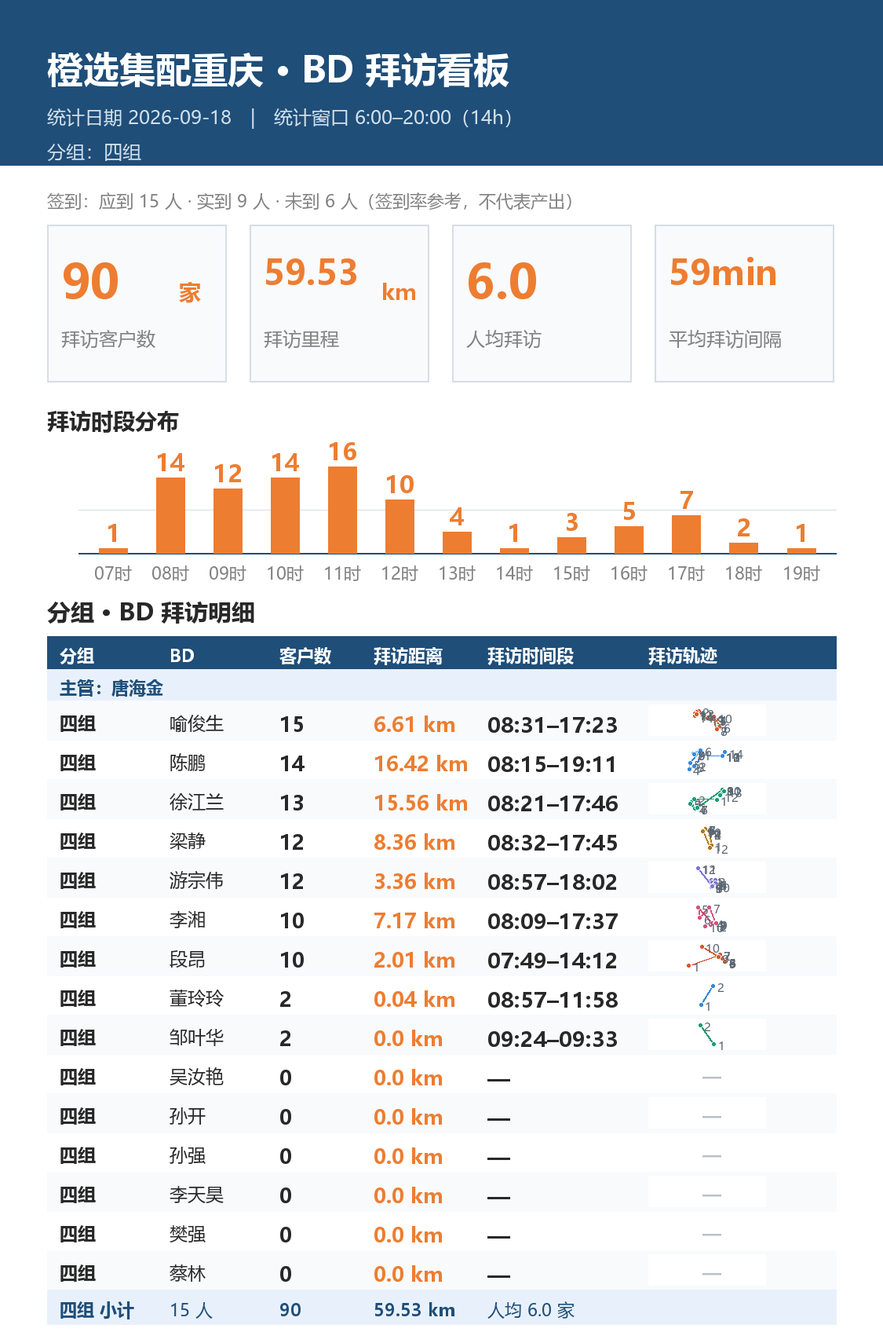
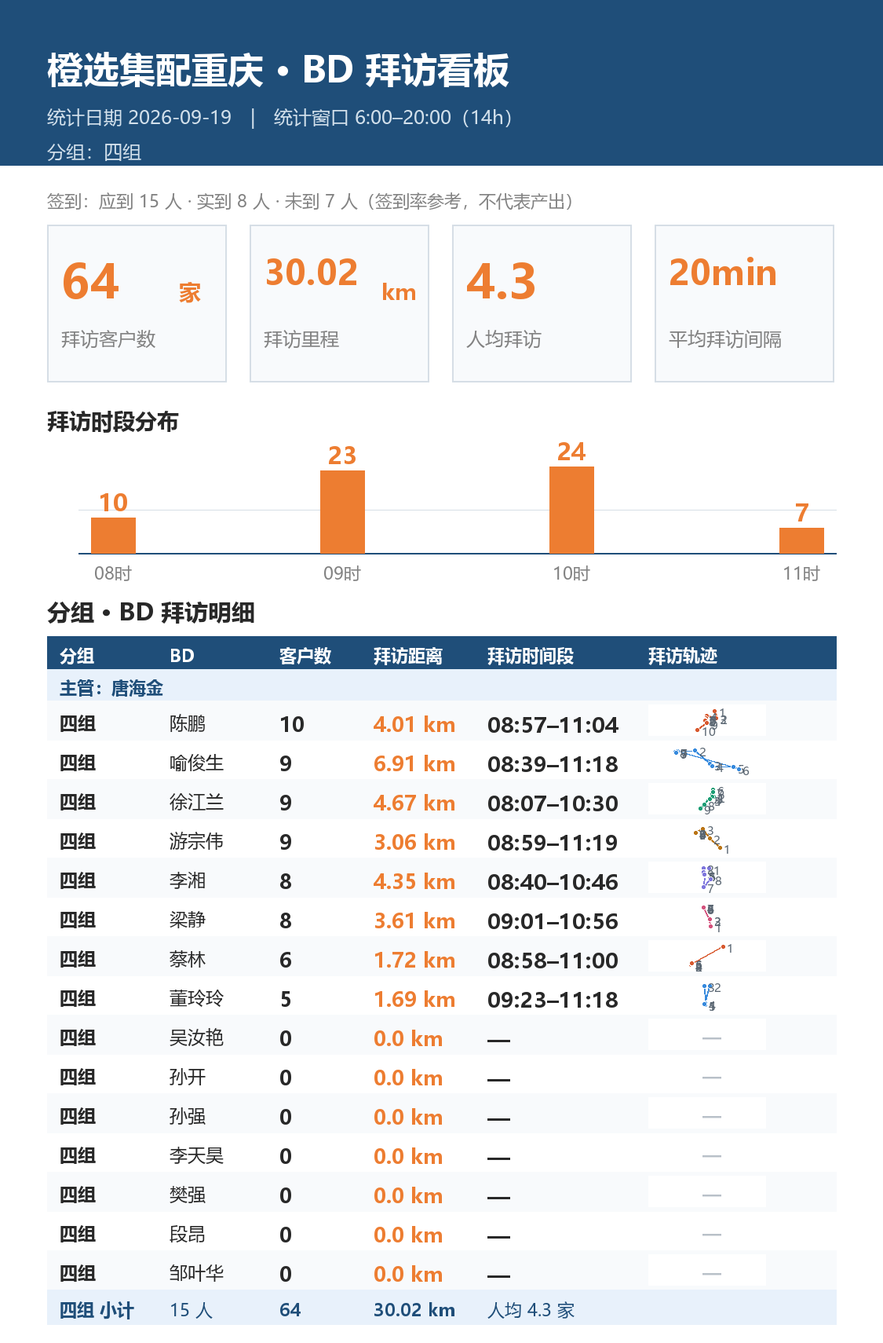
BD 拜访看板 2026-09-19

diff --git a/visit_board_g4.html b/visit_board_g4.html
@@ -1,6 +1,6 @@
 <!doctype html><html lang="zh-CN"><head><meta charset="utf-8">
 <meta name="viewport" content="width=device-width,initial-scale=1">
-<title>四组 · BD 拜访看板（2026-09-19）</title>
+<title>四组 · BD 拜访看板 · 主管：唐海金（2026-09-19）</title>
 <link rel="stylesheet" href="https://unpkg.com/leaflet@1.9.4/dist/leaflet.css"/>
 <script src="https://unpkg.com/leaflet@1.9.4/dist/leaflet.js"></script>
 <style>
@@ -103,50 +103,50 @@ td.span{font-size:16px;font-weight:600;color:#1F4E79;white-space:nowrap}
   .bar{width:72%;max-width:32px}
 }
 </style></head><body>
-<div class="head"><h1>四组 · BD 拜访看板</h1>
+<div class="head"><h1>四组 · BD 拜访看板 · 主管：唐海金</h1>
 <div class="sub">统计日期 2026-09-19　|　15 人　|　数据来源：钉钉签到</div></div>
 <div class="wrap">
 <div class="cards">
-<div class="card"><div><span class="v">58</span><span class="u">家</span></div><div class="l">拜访客户数</div></div><div class="card"><div><span class="v">27.93</span><span class="u">km</span></div><div class="l">拜访里程</div></div><div class="card"><div><span class="v">3.9</span><span class="u">家</span></div><div class="l">人均拜访</div></div><div class="card"><div><span class="v">22min</span><span class="u"></span></div><div class="l">平均拜访间隔</div></div>
+<div class="card"><div><span class="v">64</span><span class="u">家</span></div><div class="l">拜访客户数</div></div><div class="card"><div><span class="v">30.02</span><span class="u">km</span></div><div class="l">拜访里程</div></div><div class="card"><div><span class="v">4.3</span><span class="u">家</span></div><div class="l">人均拜访</div></div><div class="card"><div><span class="v">20min</span><span class="u"></span></div><div class="l">平均拜访间隔</div></div>
 </div>
-<div class="section"><h2>拜访时段分布</h2><div class="chart"><div class="crow"><div class="col"><span class="bv">10</span><div class="bar" style="height:23px"></div><span class="xl">08时</span></div><div class="col"><span class="bv">23</span><div class="bar" style="height:48px"></div><span class="xl">09时</span></div><div class="col"><span class="bv">24</span><div class="bar" style="height:50px"></div><span class="xl">10时</span></div><div class="col"><span class="bv">1</span><div class="bar" style="height:6px"></div><span class="xl">11时</span></div></div></div></div>
+<div class="section"><h2>拜访时段分布</h2><div class="chart"><div class="crow"><div class="col"><span class="bv">10</span><div class="bar" style="height:23px"></div><span class="xl">08时</span></div><div class="col"><span class="bv">23</span><div class="bar" style="height:48px"></div><span class="xl">09时</span></div><div class="col"><span class="bv">24</span><div class="bar" style="height:50px"></div><span class="xl">10时</span></div><div class="col"><span class="bv">7</span><div class="bar" style="height:17px"></div><span class="xl">11时</span></div></div></div></div>
 <div class="section"><h2>BD 拜访明细（15 人 / 签到 8 人）</h2>
 <table class="bd"><thead><tr><th>BD</th><th class="num">客户数</th><th class="num">拜访距离</th><th class="c">拜访时间段</th><th class="c">拜访轨迹</th></tr></thead>
 <tbody><tr style="background:#F2F6FB">
+<td data-label="BD">陈鹏</td>
+<td class="num" data-label="客户数">10</td>
+<td class="num orange" data-label="拜访距离">4.01</td>
+<td class="c span" data-label="拜访时间段">08:57–11:04</td>
+<td class="c" data-label="拜访轨迹"><a href="javascript:void(0)" onclick="openRoute(0)" style="color:#1F4E79;font-weight:600;font-size:13px;white-space:nowrap">查看详情 ›</a></td>
+</tr><tr style="background:#FFFFFF">
+<td data-label="BD">喻俊生</td>
+<td class="num" data-label="客户数">9</td>
+<td class="num orange" data-label="拜访距离">6.91</td>
+<td class="c span" data-label="拜访时间段">08:39–11:18</td>
+<td class="c" data-label="拜访轨迹"><a href="javascript:void(0)" onclick="openRoute(1)" style="color:#1F4E79;font-weight:600;font-size:13px;white-space:nowrap">查看详情 ›</a></td>
+</tr><tr style="background:#F2F6FB">
 <td data-label="BD">徐江兰</td>
 <td class="num" data-label="客户数">9</td>
 <td class="num orange" data-label="拜访距离">4.67</td>
 <td class="c span" data-label="拜访时间段">08:07–10:30</td>
-<td class="c" data-label="拜访轨迹"><a href="javascript:void(0)" onclick="openRoute(0)" style="color:#1F4E79;font-weight:600;font-size:13px;white-space:nowrap">查看详情 ›</a></td>
-</tr><tr style="background:#FFFFFF">
-<td data-label="BD">陈鹏</td>
-<td class="num" data-label="客户数">9</td>
-<td class="num orange" data-label="拜访距离">2.8</td>
-<td class="c span" data-label="拜访时间段">08:57–10:30</td>
-<td class="c" data-label="拜访轨迹"><a href="javascript:void(0)" onclick="openRoute(1)" style="color:#1F4E79;font-weight:600;font-size:13px;white-space:nowrap">查看详情 ›</a></td>
-</tr><tr style="background:#F2F6FB">
-<td data-label="BD">喻俊生</td>
-<td class="num" data-label="客户数">8</td>
-<td class="num orange" data-label="拜访距离">6.85</td>
-<td class="c span" data-label="拜访时间段">08:39–10:55</td>
 <td class="c" data-label="拜访轨迹"><a href="javascript:void(0)" onclick="openRoute(2)" style="color:#1F4E79;font-weight:600;font-size:13px;white-space:nowrap">查看详情 ›</a></td>
 </tr><tr style="background:#FFFFFF">
+<td data-label="BD">游宗伟</td>
+<td class="num" data-label="客户数">9</td>
+<td class="num orange" data-label="拜访距离">3.06</td>
+<td class="c span" data-label="拜访时间段">08:59–11:19</td>
+<td class="c" data-label="拜访轨迹"><a href="javascript:void(0)" onclick="openRoute(3)" style="color:#1F4E79;font-weight:600;font-size:13px;white-space:nowrap">查看详情 ›</a></td>
+</tr><tr style="background:#F2F6FB">
 <td data-label="BD">李湘</td>
 <td class="num" data-label="客户数">8</td>
 <td class="num orange" data-label="拜访距离">4.35</td>
 <td class="c span" data-label="拜访时间段">08:40–10:46</td>
-<td class="c" data-label="拜访轨迹"><a href="javascript:void(0)" onclick="openRoute(3)" style="color:#1F4E79;font-weight:600;font-size:13px;white-space:nowrap">查看详情 ›</a></td>
-</tr><tr style="background:#F2F6FB">
+<td class="c" data-label="拜访轨迹"><a href="javascript:void(0)" onclick="openRoute(4)" style="color:#1F4E79;font-weight:600;font-size:13px;white-space:nowrap">查看详情 ›</a></td>
+</tr><tr style="background:#FFFFFF">
 <td data-label="BD">梁静</td>
 <td class="num" data-label="客户数">8</td>
 <td class="num orange" data-label="拜访距离">3.61</td>
 <td class="c span" data-label="拜访时间段">09:01–10:56</td>
-<td class="c" data-label="拜访轨迹"><a href="javascript:void(0)" onclick="openRoute(4)" style="color:#1F4E79;font-weight:600;font-size:13px;white-space:nowrap">查看详情 ›</a></td>
-</tr><tr style="background:#FFFFFF">
-<td data-label="BD">游宗伟</td>
-<td class="num" data-label="客户数">7</td>
-<td class="num orange" data-label="拜访距离">2.96</td>
-<td class="c span" data-label="拜访时间段">08:59–10:56</td>
 <td class="c" data-label="拜访轨迹"><a href="javascript:void(0)" onclick="openRoute(5)" style="color:#1F4E79;font-weight:600;font-size:13px;white-space:nowrap">查看详情 ›</a></td>
 </tr><tr style="background:#F2F6FB">
 <td data-label="BD">蔡林</td>
@@ -156,9 +156,9 @@ td.span{font-size:16px;font-weight:600;color:#1F4E79;white-space:nowrap}
 <td class="c" data-label="拜访轨迹"><a href="javascript:void(0)" onclick="openRoute(6)" style="color:#1F4E79;font-weight:600;font-size:13px;white-space:nowrap">查看详情 ›</a></td>
 </tr><tr style="background:#FFFFFF">
 <td data-label="BD">董玲玲</td>
-<td class="num" data-label="客户数">3</td>
-<td class="num orange" data-label="拜访距离">0.97</td>
-<td class="c span" data-label="拜访时间段">09:23–10:54</td>
+<td class="num" data-label="客户数">5</td>
+<td class="num orange" data-label="拜访距离">1.69</td>
+<td class="c span" data-label="拜访时间段">09:23–11:18</td>
 <td class="c" data-label="拜访轨迹"><a href="javascript:void(0)" onclick="openRoute(7)" style="color:#1F4E79;font-weight:600;font-size:13px;white-space:nowrap">查看详情 ›</a></td>
 </tr><tr style="background:#F2F6FB">
 <td data-label="BD">吴汝艳</td>
@@ -216,7 +216,7 @@ td.span{font-size:16px;font-weight:600;color:#1F4E79;white-space:nowrap}
 </div>
 
 <script>
-const R={"0": {"name": "徐江兰", "group": "四组", "visits": 9, "distance": 4.67, "span": "08:07–10:30", "pace": "18min", "pts": [{"lat": 30.660342881944445, "lon": 107.78721299913194, "time": "08:07", "visit": "回访", "loc": "双桂街道西城路406号锦绣家园", "seg_km": 0.0}, {"lat": 30.66017144097222, "lon": 107.7873939344618, "time": "08:52", "visit": "新客拜访", "loc": "双桂街道西城路锦绣家园", "seg_km": 0.03}, {"lat": 30.659663628472224, "lon": 107.78540961371527, "time": "09:04", "visit": "挽回", "loc": "双桂街道永安路锦绣家园", "seg_km": 0.2}, {"lat": 30.657361653645832, "lon": 107.78255479600695, "time": "09:18", "visit": "新客拜访", "loc": "双桂街道仁安路兴茂·盛世华都", "seg_km": 0.37}, {"lat": 30.6573486328125, "lon": 107.7824560546875, "time": "09:21", "visit": "挽回", "loc": "双桂街道仁安路兴茂·盛世华都", "seg_km": 0.01}, {"lat": 30.668187934027777, "lon": 107.78631944444444, "time": "10:02", "visit": "做售后", "loc": "梁山街道西大街", "seg_km": 1.26}, {"lat": 30.665606825086805, "lon": 107.78582058376736, "time": "10:09", "visit": "回访", "loc": "梁山街道梁柚路6号玉景豪庭", "seg_km": 0.29}, {"lat": 30.65163031684028, "lon": 107.77483642578125, "time": "10:26", "visit": "回访", "loc": "双桂街道玉桂路窝子溪滨河公园", "seg_km": 1.88}, {"lat": 30.647614203559026, "lon": 107.77016221788195, "time": "10:30", "visit": "新客拜访", "loc": "双桂街道新公教育(梁平分校)隆鑫花漾城", "seg_km": 0.63}], "stops": [{"n": 1, "time": "08:07", "visit": "回访", "loc": "双桂街道西城路406号锦绣家园"}, {"n": 2, "time": "08:52", "visit": "新客拜访", "loc": "双桂街道西城路锦绣家园"}, {"n": 3, "time": "09:04", "visit": "挽回", "loc": "双桂街道永安路锦绣家园"}, {"n": 4, "time": "09:18", "visit": "新客拜访", "loc": "双桂街道仁安路兴茂·盛世华都"}, {"n": 5, "time": "09:21", "visit": "挽回", "loc": "双桂街道仁安路兴茂·盛世华都"}, {"n": 6, "time": "10:02", "visit": "做售后", "loc": "梁山街道西大街"}, {"n": 7, "time": "10:09", "visit": "回访", "loc": "梁山街道梁柚路6号玉景豪庭"}, {"n": 8, "time": "10:26", "visit": "回访", "loc": "双桂街道玉桂路窝子溪滨河公园"}, {"n": 9, "time": "10:30", "visit": "新客拜访", "loc": "双桂街道新公教育(梁平分校)隆鑫花漾城"}]}, "1": {"name": "陈鹏", "group": "四组", "visits": 9, "distance": 2.8, "span": "08:57–10:30", "pace": "11min", "pts": [{"lat": 30.835573, "lon": 106.103282, "time": "08:57", "visit": "新开", "loc": "舞凤街道万年西路151号春风·玫瑰园", "seg_km": 0.0}, {"lat": 30.828644, "lon": 106.105625, "time": "09:12", "visit": "新开", "loc": "舞凤街道同益街尚品观邸", "seg_km": 0.8}, {"lat": 30.828621, "lon": 106.10452, "time": "09:23", "visit": "拉新", "loc": "舞凤街道镇江西路二段美宇·凤凰城", "seg_km": 0.11}, {"lat": 30.830811, "lon": 106.094324, "time": "09:35", "visit": "客情维护", "loc": "舞凤街道四海西街金鸿城", "seg_km": 1.0}, {"lat": 30.828489, "lon": 106.093179, "time": "09:40", "visit": "新开", "loc": "舞凤街道锦程路295号金鸿城归谷", "seg_km": 0.28}, {"lat": 30.828214, "lon": 106.093429, "time": "09:57", "visit": "新开", "loc": "舞凤街道锦程路西蜀嘉园", "seg_km": 0.04}, {"lat": 30.827079, "lon": 106.092854, "time": "10:04", "visit": "新开", "loc": "舞凤街道锦程路西蜀嘉园", "seg_km": 0.14}, {"lat": 30.826399, "lon": 106.092529, "time": "10:23", "visit": "新开", "loc": "舞凤街道华锦街西蜀嘉园", "seg_km": 0.08}, {"lat": 30.82397606925057, "lon": 106.09488970331172, "time": "10:30", "visit": "新开", "loc": "舞凤街道锦亭路境界", "seg_km": 0.35}], "stops": [{"n": 1, "time": "08:57", "visit": "新开", "loc": "舞凤街道万年西路151号春风·玫瑰园"}, {"n": 2, "time": "09:12", "visit": "新开", "loc": "舞凤街道同益街尚品观邸"}, {"n": 3, "time": "09:23", "visit": "拉新", "loc": "舞凤街道镇江西路二段美宇·凤凰城"}, {"n": 4, "time": "09:35", "visit": "客情维护", "loc": "舞凤街道四海西街金鸿城"}, {"n": 5, "time": "09:40", "visit": "新开", "loc": "舞凤街道锦程路295号金鸿城归谷"}, {"n": 6, "time": "09:57", "visit": "新开", "loc": "舞凤街道锦程路西蜀嘉园"}, {"n": 7, "time": "10:04", "visit": "新开", "loc": "舞凤街道锦程路西蜀嘉园"}, {"n": 8, "time": "10:23", "visit": "新开", "loc": "舞凤街道华锦街西蜀嘉园"}, {"n": 9, "time": "10:30", "visit": "新开", "loc": "舞凤街道锦亭路境界"}]}, "2": {"name": "喻俊生", "group": "四组", "visits": 8, "distance": 6.85, "span": "08:39–10:55", "pace": "19min", "pts": [{"lat": 29.530660807291667, "lon": 108.76620469835069, "time": "08:39", "visit": "水井湾菜市场8号\n新开", "loc": "城西街道西山路", "seg_km": 0.0}, {"lat": 29.531313205295138, "lon": 108.77549587673612, "time": "08:49", "visit": "天天鲜果\n新开", "loc": "城西街道城西九路农机大厦(城西九路)", "seg_km": 0.9}, {"lat": 29.524823676215277, "lon": 108.78357611762152, "time": "09:15", "visit": "程林水果批发\n新开", "loc": "城东街道丹兴路", "seg_km": 1.06}, {"lat": 29.523961859809027, "lon": 108.78473659939236, "time": "09:49", "visit": "致富水果批发\n新开", "loc": "城东街道丹兴路祥龙苑", "seg_km": 0.15}, {"lat": 29.523428819444444, "lon": 108.79596706814236, "time": "10:20", "visit": "四季鲜水果批发\n新开", "loc": "城东街道电信街黔江仁爱医院", "seg_km": 1.09}, {"lat": 29.52262179904514, "lon": 108.79870849609375, "time": "10:24", "visit": "下坝菜市场\n新开", "loc": "城东街道新华大道东段下坝菜市场", "seg_km": 0.28}, {"lat": 29.53063910590278, "lon": 108.76563639322917, "time": "10:46", "visit": "水浸湾菜市场\n新开", "loc": "城西街道大梁子巷", "seg_km": 3.32}, {"lat": 29.530527615017363, "lon": 108.76517768012152, "time": "10:55", "visit": "水浸湾菜市场水果摊\n新开", "loc": "城西街道西山路", "seg_km": 0.05}], "stops": [{"n": 1, "time": "08:39", "visit": "水井湾菜市场8号\n新开", "loc": "城西街道西山路"}, {"n": 2, "time": "08:49", "visit": "天天鲜果\n新开", "loc": "城西街道城西九路农机大厦(城西九路)"}, {"n": 3, "time": "09:15", "visit": "程林水果批发\n新开", "loc": "城东街道丹兴路"}, {"n": 4, "time": "09:49", "visit": "致富水果批发\n新开", "loc": "城东街道丹兴路祥龙苑"}, {"n": 5, "time": "10:20", "visit": "四季鲜水果批发\n新开", "loc": "城东街道电信街黔江仁爱医院"}, {"n": 6, "time": "10:24", "visit": "下坝菜市场\n新开", "loc": "城东街道新华大道东段下坝菜市场"}, {"n": 7, "time": "10:46", "visit": "水浸湾菜市场\n新开", "loc": "城西街道大梁子巷"}, {"n": 8, "time": "10:55", "visit": "水浸湾菜市场水果摊\n新开", "loc": "城西街道西山路"}]}, "3": {"name": "李湘", "group": "四组", "visits": 8, "distance": 4.35, "span": "08:40–10:46", "pace": "18min", "pts": [{"lat": 30.751453450520835, "lon": 107.20712782118055, "time": "08:40", "visit": "店名：喜多多超市\n新开", "loc": "白塔街道滨河北路名豪国际C区", "seg_km": 0.0}, {"lat": 30.752042914496528, "lon": 107.19986599392361, "time": "08:48", "visit": "店名：刘家坝水果\n新开", "loc": "白塔街道大竹车坝宾馆刘家坝农贸市场", "seg_km": 0.7}, {"lat": 30.74704372829861, "lon": 107.20016520182291, "time": "08:52", "visit": "店名：陈小春水果\n新开", "loc": "白塔街道体育大道108号天泰·新天地", "seg_km": 0.56}, {"lat": 30.744264322916667, "lon": 107.20143012152778, "time": "09:03", "visit": "店名：小胡豆蔬菜供应\n挽回", "loc": "白塔街道竹海路西段青年广场", "seg_km": 0.33}, {"lat": 30.744735514322915, "lon": 107.20154568142361, "time": "09:25", "visit": "店名：眼镜蔬菜批发\n挽回", "loc": "白塔街道竹海路西段686号", "seg_km": 0.05}, {"lat": 30.74471706814236, "lon": 107.20154513888889, "time": "09:57", "visit": "店名：周花椒干鲜\n新开", "loc": "白塔街道竹海路西段686号", "seg_km": 0.0}, {"lat": 30.731937120225695, "lon": 107.19991129557292, "time": "10:32", "visit": "店名：学府上城水果摊\n新开", "loc": "竹阳街道滨河南路竹阳镇南城安置小区", "seg_km": 1.43}, {"lat": 30.740094672309027, "lon": 107.20936713324653, "time": "10:46", "visit": "店名：四季鲜水果\n新开", "loc": "白塔街道北大街艺秀格时尚酒店", "seg_km": 1.28}], "stops": [{"n": 1, "time": "08:40", "visit": "店名：喜多多超市\n新开", "loc": "白塔街道滨河北路名豪国际C区"}, {"n": 2, "time": "08:48", "visit": "店名：刘家坝水果\n新开", "loc": "白塔街道大竹车坝宾馆刘家坝农贸市场"}, {"n": 3, "time": "08:52", "visit": "店名：陈小春水果\n新开", "loc": "白塔街道体育大道108号天泰·新天地"}, {"n": 4, "time": "09:03", "visit": "店名：小胡豆蔬菜供应\n挽回", "loc": "白塔街道竹海路西段青年广场"}, {"n": 5, "time": "09:25", "visit": "店名：眼镜蔬菜批发\n挽回", "loc": "白塔街道竹海路西段686号"}, {"n": 6, "time": "09:57", "visit": "店名：周花椒干鲜\n新开", "loc": "白塔街道竹海路西段686号"}, {"n": 7, "time": "10:32", "visit": "店名：学府上城水果摊\n新开", "loc": "竹阳街道滨河南路竹阳镇南城安置小区"}, {"n": 8, "time": "10:46", "visit": "店名：四季鲜水果\n新开", "loc": "白塔街道北大街艺秀格时尚酒店"}]}, "4": {"name": "梁静", "group": "四组", "visits": 8, "distance": 3.61, "span": "09:01–10:56", "pace": "16min", "pts": [{"lat": 31.18812255859375, "lon": 107.51532416449653, "time": "09:01", "visit": "鲜果坊，找新客", "loc": "三里坪街道文兴街侨兴时代广场A区", "seg_km": 0.0}, {"lat": 31.19799886067708, "lon": 107.51410481770833, "time": "09:16", "visit": "天和农贸市场。 找新客户", "loc": "三里坪街道汉兴大道一段100号", "seg_km": 1.1}, {"lat": 31.198001844618055, "lon": 107.51409803602431, "time": "09:20", "visit": "李氏批发门市，找新客户", "loc": "三里坪街道汉兴大道一段100号", "seg_km": 0.0}, {"lat": 31.216837293836807, "lon": 107.50187255859375, "time": "09:45", "visit": "朝阳农贸市场二楼。找新客户", "loc": "西城街道朝凤北路35号朝阳农贸集市", "seg_km": 2.4}, {"lat": 31.216733669704862, "lon": 107.50197184244792, "time": "09:49", "visit": "朝阳农贸市场二楼梯子那里，拜访以前的老客户", "loc": "西城街道朝凤北路39号朝阳农贸集市", "seg_km": 0.01}, {"lat": 31.216792805989584, "lon": 107.50190239800347, "time": "10:04", "visit": "朝阳农贸市场 。处理售后", "loc": "西城街道朝凤北路18号朝阳农贸集市", "seg_km": 0.01}, {"lat": 31.216791178385417, "lon": 107.50180826822917, "time": "10:18", "visit": "朝阳农贸市场处理售后", "loc": "西城街道朝凤北路20号朝阳农贸集市", "seg_km": 0.01}, {"lat": 31.216106770833335, "lon": 107.50202555338542, "time": "10:56", "visit": "江苏炒货开新客户", "loc": "东城街道朝凤北路三委小区", "seg_km": 0.08}], "stops": [{"n": 1, "time": "09:01", "visit": "鲜果坊，找新客", "loc": "三里坪街道文兴街侨兴时代广场A区"}, {"n": 2, "time": "09:16", "visit": "天和农贸市场。 找新客户", "loc": "三里坪街道汉兴大道一段100号"}, {"n": 3, "time": "09:20", "visit": "李氏批发门市，找新客户", "loc": "三里坪街道汉兴大道一段100号"}, {"n": 4, "time": "09:45", "visit": "朝阳农贸市场二楼。找新客户", "loc": "西城街道朝凤北路35号朝阳农贸集市"}, {"n": 5, "time": "09:49", "visit": "朝阳农贸市场二楼梯子那里，拜访以前的老客户", "loc": "西城街道朝凤北路39号朝阳农贸集市"}, {"n": 6, "time": "10:04", "visit": "朝阳农贸市场 。处理售后", "loc": "西城街道朝凤北路18号朝阳农贸集市"}, {"n": 7, "time": "10:18", "visit": "朝阳农贸市场处理售后", "loc": "西城街道朝凤北路20号朝阳农贸集市"}, {"n": 8, "time": "10:56", "visit": "江苏炒货开新客户", "loc": "东城街道朝凤北路三委小区"}]}, "5": {"name": "游宗伟", "group": "四组", "visits": 7, "distance": 2.96, "span": "08:59–10:56", "pace": "20min", "pts": [{"lat": 29.96963894314236, "lon": 106.28654242621528, "time": "08:59", "visit": "生态蔬果，新开", "loc": "南津街街道南津街金科·世界城", "seg_km": 0.0}, {"lat": 29.976571723090277, "lon": 106.27806613498264, "time": "09:07", "visit": "乐买特超市，新开", "loc": "南津街街道中南路三江希望城", "seg_km": 1.12}, {"lat": 29.98354220920139, "lon": 106.27243977864583, "time": "10:03", "visit": "万家香，新开", "loc": "南津街街道文峰古街", "seg_km": 0.95}, {"lat": 29.980336100260416, "lon": 106.26556315104166, "time": "10:20", "visit": "新开，李姐蔬菜", "loc": "南津街街道书院路10号", "seg_km": 0.75}, {"lat": 29.980486924913194, "lon": 106.26569580078124, "time": "10:25", "visit": "王姐蔬菜，挽回", "loc": "南津街街道书院路10号", "seg_km": 0.02}, {"lat": 29.98072265625, "lon": 106.26590223524306, "time": "10:32", "visit": "彭姐水果，挽回", "loc": "南津街街道婆婆湾街", "seg_km": 0.03}, {"lat": 29.980284016927083, "lon": 106.26507378472222, "time": "10:56", "visit": "石兰干鲜，新开", "loc": "南津街街道南屏西路43号", "seg_km": 0.09}], "stops": [{"n": 1, "time": "08:59", "visit": "生态蔬果，新开", "loc": "南津街街道南津街金科·世界城"}, {"n": 2, "time": "09:07", "visit": "乐买特超市，新开", "loc": "南津街街道中南路三江希望城"}, {"n": 3, "time": "10:03", "visit": "万家香，新开", "loc": "南津街街道文峰古街"}, {"n": 4, "time": "10:20", "visit": "新开，李姐蔬菜", "loc": "南津街街道书院路10号"}, {"n": 5, "time": "10:25", "visit": "王姐蔬菜，挽回", "loc": "南津街街道书院路10号"}, {"n": 6, "time": "10:32", "visit": "彭姐水果，挽回", "loc": "南津街街道婆婆湾街"}, {"n": 7, "time": "10:56", "visit": "石兰干鲜，新开", "loc": "南津街街道南屏西路43号"}]}, "6": {"name": "蔡林", "group": "四组", "visits": 6, "distance": 1.72, "span": "08:58–11:00", "pace": "25min", "pts": [{"lat": 31.85955322265625, "lon": 106.76731635199653, "time": "08:58", "visit": "老江北生鲜店\n客情维护", "loc": "江北街道江北大道东段永泰花园桂花苑", "seg_km": 0.0}, {"lat": 31.852118055555554, "lon": 106.7525718858507, "time": "09:33", "visit": "跟进客户召回", "loc": "西城街道凤谷街115号城西市场", "seg_km": 1.62}, {"lat": 31.852109917534722, "lon": 106.75258138020833, "time": "09:42", "visit": "跟进挽回客户下单", "loc": "西城街道凤谷街115号城西市场", "seg_km": 0.0}, {"lat": 31.852132703993057, "lon": 106.75252631293402, "time": "09:59", "visit": "跟进新客户下单", "loc": "西城街道凤谷街115号城西市场", "seg_km": 0.01}, {"lat": 31.852723524305556, "lon": 106.75275390625, "time": "10:31", "visit": "跟进老客户下单", "loc": "西城街道红军路274号城西市场", "seg_km": 0.07}, {"lat": 31.852888997395834, "lon": 106.7527406141493, "time": "11:00", "visit": "客情维护", "loc": "西城街道红军路274号城西市场", "seg_km": 0.02}], "stops": [{"n": 1, "time": "08:58", "visit": "老江北生鲜店\n客情维护", "loc": "江北街道江北大道东段永泰花园桂花苑"}, {"n": 2, "time": "09:33", "visit": "跟进客户召回", "loc": "西城街道凤谷街115号城西市场"}, {"n": 3, "time": "09:42", "visit": "跟进挽回客户下单", "loc": "西城街道凤谷街115号城西市场"}, {"n": 4, "time": "09:59", "visit": "跟进新客户下单", "loc": "西城街道凤谷街115号城西市场"}, {"n": 5, "time": "10:31", "visit": "跟进老客户下单", "loc": "西城街道红军路274号城西市场"}, {"n": 6, "time": "11:00", "visit": "客情维护", "loc": "西城街道红军路274号城西市场"}]}, "7": {"name": "董玲玲", "group": "四组", "visits": 3, "distance": 0.97, "span": "09:23–10:54", "pace": "46min", "pts": [{"lat": 30.833126085069445, "lon": 106.97041883680555, "time": "09:23", "visit": "挽回", "loc": "渠南街道北大街82号渠县人民市场", "seg_km": 0.0}, {"lat": 30.83968071831597, "lon": 106.97246826171875, "time": "10:06", "visit": "开新", "loc": "渠江街道北大街11号渠县第三中学", "seg_km": 0.75}, {"lat": 30.839603949652776, "lon": 106.97012424045138, "time": "10:54", "visit": "开新", "loc": "渠江街道营渠路天源商务宾馆", "seg_km": 0.22}], "stops": [{"n": 1, "time": "09:23", "visit": "挽回", "loc": "渠南街道北大街82号渠县人民市场"}, {"n": 2, "time": "10:06", "visit": "开新", "loc": "渠江街道北大街11号渠县第三中学"}, {"n": 3, "time": "10:54", "visit": "开新", "loc": "渠江街道营渠路天源商务宾馆"}]}};
+const R={"0": {"name": "陈鹏", "group": "四组", "visits": 10, "distance": 4.01, "span": "08:57–11:04", "pace": "14min", "pts": [{"lat": 30.835573, "lon": 106.103282, "time": "08:57", "visit": "新开", "loc": "舞凤街道万年西路151号春风·玫瑰园", "seg_km": 0.0}, {"lat": 30.828644, "lon": 106.105625, "time": "09:12", "visit": "新开", "loc": "舞凤街道同益街尚品观邸", "seg_km": 0.8}, {"lat": 30.828621, "lon": 106.10452, "time": "09:23", "visit": "拉新", "loc": "舞凤街道镇江西路二段美宇·凤凰城", "seg_km": 0.11}, {"lat": 30.830811, "lon": 106.094324, "time": "09:35", "visit": "客情维护", "loc": "舞凤街道四海西街金鸿城", "seg_km": 1.0}, {"lat": 30.828489, "lon": 106.093179, "time": "09:40", "visit": "新开", "loc": "舞凤街道锦程路295号金鸿城归谷", "seg_km": 0.28}, {"lat": 30.828214, "lon": 106.093429, "time": "09:57", "visit": "新开", "loc": "舞凤街道锦程路西蜀嘉园", "seg_km": 0.04}, {"lat": 30.827079, "lon": 106.092854, "time": "10:04", "visit": "新开", "loc": "舞凤街道锦程路西蜀嘉园", "seg_km": 0.14}, {"lat": 30.826399, "lon": 106.092529, "time": "10:23", "visit": "新开", "loc": "舞凤街道华锦街西蜀嘉园", "seg_km": 0.08}, {"lat": 30.82397606925057, "lon": 106.09488970331172, "time": "10:30", "visit": "新开", "loc": "舞凤街道锦亭路境界", "seg_km": 0.35}, {"lat": 30.817825, "lon": 106.084442, "time": "11:04", "visit": "新开", "loc": "华凤街道华锦路翠林雅阁", "seg_km": 1.21}], "stops": [{"n": 1, "time": "08:57", "visit": "新开", "loc": "舞凤街道万年西路151号春风·玫瑰园"}, {"n": 2, "time": "09:12", "visit": "新开", "loc": "舞凤街道同益街尚品观邸"}, {"n": 3, "time": "09:23", "visit": "拉新", "loc": "舞凤街道镇江西路二段美宇·凤凰城"}, {"n": 4, "time": "09:35", "visit": "客情维护", "loc": "舞凤街道四海西街金鸿城"}, {"n": 5, "time": "09:40", "visit": "新开", "loc": "舞凤街道锦程路295号金鸿城归谷"}, {"n": 6, "time": "09:57", "visit": "新开", "loc": "舞凤街道锦程路西蜀嘉园"}, {"n": 7, "time": "10:04", "visit": "新开", "loc": "舞凤街道锦程路西蜀嘉园"}, {"n": 8, "time": "10:23", "visit": "新开", "loc": "舞凤街道华锦街西蜀嘉园"}, {"n": 9, "time": "10:30", "visit": "新开", "loc": "舞凤街道锦亭路境界"}, {"n": 10, "time": "11:04", "visit": "新开", "loc": "华凤街道华锦路翠林雅阁"}]}, "1": {"name": "喻俊生", "group": "四组", "visits": 9, "distance": 6.91, "span": "08:39–11:18", "pace": "20min", "pts": [{"lat": 29.530660807291667, "lon": 108.76620469835069, "time": "08:39", "visit": "水井湾菜市场8号\n新开", "loc": "城西街道西山路", "seg_km": 0.0}, {"lat": 29.531313205295138, "lon": 108.77549587673612, "time": "08:49", "visit": "天天鲜果\n新开", "loc": "城西街道城西九路农机大厦(城西九路)", "seg_km": 0.9}, {"lat": 29.524823676215277, "lon": 108.78357611762152, "time": "09:15", "visit": "程林水果批发\n新开", "loc": "城东街道丹兴路", "seg_km": 1.06}, {"lat": 29.523961859809027, "lon": 108.78473659939236, "time": "09:49", "visit": "致富水果批发\n新开", "loc": "城东街道丹兴路祥龙苑", "seg_km": 0.15}, {"lat": 29.523428819444444, "lon": 108.79596706814236, "time": "10:20", "visit": "四季鲜水果批发\n新开", "loc": "城东街道电信街黔江仁爱医院", "seg_km": 1.09}, {"lat": 29.52262179904514, "lon": 108.79870849609375, "time": "10:24", "visit": "下坝菜市场\n新开", "loc": "城东街道新华大道东段下坝菜市场", "seg_km": 0.28}, {"lat": 29.53063910590278, "lon": 108.76563639322917, "time": "10:46", "visit": "水浸湾菜市场\n新开", "loc": "城西街道大梁子巷", "seg_km": 3.32}, {"lat": 29.530527615017363, "lon": 108.76517768012152, "time": "10:55", "visit": "水浸湾菜市场水果摊\n新开", "loc": "城西街道西山路", "seg_km": 0.05}, {"lat": 29.530182562934026, "lon": 108.76565483940972, "time": "11:18", "visit": "水浸湾菜市场大梁子巷蔬菜摊\n新开", "loc": "城西街道杨家巷", "seg_km": 0.06}], "stops": [{"n": 1, "time": "08:39", "visit": "水井湾菜市场8号\n新开", "loc": "城西街道西山路"}, {"n": 2, "time": "08:49", "visit": "天天鲜果\n新开", "loc": "城西街道城西九路农机大厦(城西九路)"}, {"n": 3, "time": "09:15", "visit": "程林水果批发\n新开", "loc": "城东街道丹兴路"}, {"n": 4, "time": "09:49", "visit": "致富水果批发\n新开", "loc": "城东街道丹兴路祥龙苑"}, {"n": 5, "time": "10:20", "visit": "四季鲜水果批发\n新开", "loc": "城东街道电信街黔江仁爱医院"}, {"n": 6, "time": "10:24", "visit": "下坝菜市场\n新开", "loc": "城东街道新华大道东段下坝菜市场"}, {"n": 7, "time": "10:46", "visit": "水浸湾菜市场\n新开", "loc": "城西街道大梁子巷"}, {"n": 8, "time": "10:55", "visit": "水浸湾菜市场水果摊\n新开", "loc": "城西街道西山路"}, {"n": 9, "time": "11:18", "visit": "水浸湾菜市场大梁子巷蔬菜摊\n新开", "loc": "城西街道杨家巷"}]}, "2": {"name": "徐江兰", "group": "四组", "visits": 9, "distance": 4.67, "span": "08:07–10:30", "pace": "18min", "pts": [{"lat": 30.660342881944445, "lon": 107.78721299913194, "time": "08:07", "visit": "回访", "loc": "双桂街道西城路406号锦绣家园", "seg_km": 0.0}, {"lat": 30.66017144097222, "lon": 107.7873939344618, "time": "08:52", "visit": "新客拜访", "loc": "双桂街道西城路锦绣家园", "seg_km": 0.03}, {"lat": 30.659663628472224, "lon": 107.78540961371527, "time": "09:04", "visit": "挽回", "loc": "双桂街道永安路锦绣家园", "seg_km": 0.2}, {"lat": 30.657361653645832, "lon": 107.78255479600695, "time": "09:18", "visit": "新客拜访", "loc": "双桂街道仁安路兴茂·盛世华都", "seg_km": 0.37}, {"lat": 30.6573486328125, "lon": 107.7824560546875, "time": "09:21", "visit": "挽回", "loc": "双桂街道仁安路兴茂·盛世华都", "seg_km": 0.01}, {"lat": 30.668187934027777, "lon": 107.78631944444444, "time": "10:02", "visit": "做售后", "loc": "梁山街道西大街", "seg_km": 1.26}, {"lat": 30.665606825086805, "lon": 107.78582058376736, "time": "10:09", "visit": "回访", "loc": "梁山街道梁柚路6号玉景豪庭", "seg_km": 0.29}, {"lat": 30.65163031684028, "lon": 107.77483642578125, "time": "10:26", "visit": "回访", "loc": "双桂街道玉桂路窝子溪滨河公园", "seg_km": 1.88}, {"lat": 30.647614203559026, "lon": 107.77016221788195, "time": "10:30", "visit": "新客拜访", "loc": "双桂街道新公教育(梁平分校)隆鑫花漾城", "seg_km": 0.63}], "stops": [{"n": 1, "time": "08:07", "visit": "回访", "loc": "双桂街道西城路406号锦绣家园"}, {"n": 2, "time": "08:52", "visit": "新客拜访", "loc": "双桂街道西城路锦绣家园"}, {"n": 3, "time": "09:04", "visit": "挽回", "loc": "双桂街道永安路锦绣家园"}, {"n": 4, "time": "09:18", "visit": "新客拜访", "loc": "双桂街道仁安路兴茂·盛世华都"}, {"n": 5, "time": "09:21", "visit": "挽回", "loc": "双桂街道仁安路兴茂·盛世华都"}, {"n": 6, "time": "10:02", "visit": "做售后", "loc": "梁山街道西大街"}, {"n": 7, "time": "10:09", "visit": "回访", "loc": "梁山街道梁柚路6号玉景豪庭"}, {"n": 8, "time": "10:26", "visit": "回访", "loc": "双桂街道玉桂路窝子溪滨河公园"}, {"n": 9, "time": "10:30", "visit": "新客拜访", "loc": "双桂街道新公教育(梁平分校)隆鑫花漾城"}]}, "3": {"name": "游宗伟", "group": "四组", "visits": 9, "distance": 3.06, "span": "08:59–11:19", "pace": "17min", "pts": [{"lat": 29.96963894314236, "lon": 106.28654242621528, "time": "08:59", "visit": "生态蔬果，新开", "loc": "南津街街道南津街金科·世界城", "seg_km": 0.0}, {"lat": 29.976571723090277, "lon": 106.27806613498264, "time": "09:07", "visit": "乐买特超市，新开", "loc": "南津街街道中南路三江希望城", "seg_km": 1.12}, {"lat": 29.98354220920139, "lon": 106.27243977864583, "time": "10:03", "visit": "万家香，新开", "loc": "南津街街道文峰古街", "seg_km": 0.95}, {"lat": 29.980336100260416, "lon": 106.26556315104166, "time": "10:20", "visit": "新开，李姐蔬菜", "loc": "南津街街道书院路10号", "seg_km": 0.75}, {"lat": 29.980486924913194, "lon": 106.26569580078124, "time": "10:25", "visit": "王姐蔬菜，挽回", "loc": "南津街街道书院路10号", "seg_km": 0.02}, {"lat": 29.98072265625, "lon": 106.26590223524306, "time": "10:32", "visit": "彭姐水果，挽回", "loc": "南津街街道婆婆湾街", "seg_km": 0.03}, {"lat": 29.980284016927083, "lon": 106.26507378472222, "time": "10:56", "visit": "石兰干鲜，新开", "loc": "南津街街道南屏西路43号", "seg_km": 0.09}, {"lat": 29.980365397135415, "lon": 106.26559597439235, "time": "11:16", "visit": "张氏蔬果，新开", "loc": "南津街街道书院路10号", "seg_km": 0.05}, {"lat": 29.980316840277776, "lon": 106.26607204861111, "time": "11:19", "visit": "李姐水果，新开", "loc": "南津街街道南屏西路70号", "seg_km": 0.05}], "stops": [{"n": 1, "time": "08:59", "visit": "生态蔬果，新开", "loc": "南津街街道南津街金科·世界城"}, {"n": 2, "time": "09:07", "visit": "乐买特超市，新开", "loc": "南津街街道中南路三江希望城"}, {"n": 3, "time": "10:03", "visit": "万家香，新开", "loc": "南津街街道文峰古街"}, {"n": 4, "time": "10:20", "visit": "新开，李姐蔬菜", "loc": "南津街街道书院路10号"}, {"n": 5, "time": "10:25", "visit": "王姐蔬菜，挽回", "loc": "南津街街道书院路10号"}, {"n": 6, "time": "10:32", "visit": "彭姐水果，挽回", "loc": "南津街街道婆婆湾街"}, {"n": 7, "time": "10:56", "visit": "石兰干鲜，新开", "loc": "南津街街道南屏西路43号"}, {"n": 8, "time": "11:16", "visit": "张氏蔬果，新开", "loc": "南津街街道书院路10号"}, {"n": 9, "time": "11:19", "visit": "李姐水果，新开", "loc": "南津街街道南屏西路70号"}]}, "4": {"name": "李湘", "group": "四组", "visits": 8, "distance": 4.35, "span": "08:40–10:46", "pace": "18min", "pts": [{"lat": 30.751453450520835, "lon": 107.20712782118055, "time": "08:40", "visit": "店名：喜多多超市\n新开", "loc": "白塔街道滨河北路名豪国际C区", "seg_km": 0.0}, {"lat": 30.752042914496528, "lon": 107.19986599392361, "time": "08:48", "visit": "店名：刘家坝水果\n新开", "loc": "白塔街道大竹车坝宾馆刘家坝农贸市场", "seg_km": 0.7}, {"lat": 30.74704372829861, "lon": 107.20016520182291, "time": "08:52", "visit": "店名：陈小春水果\n新开", "loc": "白塔街道体育大道108号天泰·新天地", "seg_km": 0.56}, {"lat": 30.744264322916667, "lon": 107.20143012152778, "time": "09:03", "visit": "店名：小胡豆蔬菜供应\n挽回", "loc": "白塔街道竹海路西段青年广场", "seg_km": 0.33}, {"lat": 30.744735514322915, "lon": 107.20154568142361, "time": "09:25", "visit": "店名：眼镜蔬菜批发\n挽回", "loc": "白塔街道竹海路西段686号", "seg_km": 0.05}, {"lat": 30.74471706814236, "lon": 107.20154513888889, "time": "09:57", "visit": "店名：周花椒干鲜\n新开", "loc": "白塔街道竹海路西段686号", "seg_km": 0.0}, {"lat": 30.731937120225695, "lon": 107.19991129557292, "time": "10:32", "visit": "店名：学府上城水果摊\n新开", "loc": "竹阳街道滨河南路竹阳镇南城安置小区", "seg_km": 1.43}, {"lat": 30.740094672309027, "lon": 107.20936713324653, "time": "10:46", "visit": "店名：四季鲜水果\n新开", "loc": "白塔街道北大街艺秀格时尚酒店", "seg_km": 1.28}], "stops": [{"n": 1, "time": "08:40", "visit": "店名：喜多多超市\n新开", "loc": "白塔街道滨河北路名豪国际C区"}, {"n": 2, "time": "08:48", "visit": "店名：刘家坝水果\n新开", "loc": "白塔街道大竹车坝宾馆刘家坝农贸市场"}, {"n": 3, "time": "08:52", "visit": "店名：陈小春水果\n新开", "loc": "白塔街道体育大道108号天泰·新天地"}, {"n": 4, "time": "09:03", "visit": "店名：小胡豆蔬菜供应\n挽回", "loc": "白塔街道竹海路西段青年广场"}, {"n": 5, "time": "09:25", "visit": "店名：眼镜蔬菜批发\n挽回", "loc": "白塔街道竹海路西段686号"}, {"n": 6, "time": "09:57", "visit": "店名：周花椒干鲜\n新开", "loc": "白塔街道竹海路西段686号"}, {"n": 7, "time": "10:32", "visit": "店名：学府上城水果摊\n新开", "loc": "竹阳街道滨河南路竹阳镇南城安置小区"}, {"n": 8, "time": "10:46", "visit": "店名：四季鲜水果\n新开", "loc": "白塔街道北大街艺秀格时尚酒店"}]}, "5": {"name": "梁静", "group": "四组", "visits": 8, "distance": 3.61, "span": "09:01–10:56", "pace": "16min", "pts": [{"lat": 31.18812255859375, "lon": 107.51532416449653, "time": "09:01", "visit": "鲜果坊，找新客", "loc": "三里坪街道文兴街侨兴时代广场A区", "seg_km": 0.0}, {"lat": 31.19799886067708, "lon": 107.51410481770833, "time": "09:16", "visit": "天和农贸市场。 找新客户", "loc": "三里坪街道汉兴大道一段100号", "seg_km": 1.1}, {"lat": 31.198001844618055, "lon": 107.51409803602431, "time": "09:20", "visit": "李氏批发门市，找新客户", "loc": "三里坪街道汉兴大道一段100号", "seg_km": 0.0}, {"lat": 31.216837293836807, "lon": 107.50187255859375, "time": "09:45", "visit": "朝阳农贸市场二楼。找新客户", "loc": "西城街道朝凤北路35号朝阳农贸集市", "seg_km": 2.4}, {"lat": 31.216733669704862, "lon": 107.50197184244792, "time": "09:49", "visit": "朝阳农贸市场二楼梯子那里，拜访以前的老客户", "loc": "西城街道朝凤北路39号朝阳农贸集市", "seg_km": 0.01}, {"lat": 31.216792805989584, "lon": 107.50190239800347, "time": "10:04", "visit": "朝阳农贸市场 。处理售后", "loc": "西城街道朝凤北路18号朝阳农贸集市", "seg_km": 0.01}, {"lat": 31.216791178385417, "lon": 107.50180826822917, "time": "10:18", "visit": "朝阳农贸市场处理售后", "loc": "西城街道朝凤北路20号朝阳农贸集市", "seg_km": 0.01}, {"lat": 31.216106770833335, "lon": 107.50202555338542, "time": "10:56", "visit": "江苏炒货开新客户", "loc": "东城街道朝凤北路三委小区", "seg_km": 0.08}], "stops": [{"n": 1, "time": "09:01", "visit": "鲜果坊，找新客", "loc": "三里坪街道文兴街侨兴时代广场A区"}, {"n": 2, "time": "09:16", "visit": "天和农贸市场。 找新客户", "loc": "三里坪街道汉兴大道一段100号"}, {"n": 3, "time": "09:20", "visit": "李氏批发门市，找新客户", "loc": "三里坪街道汉兴大道一段100号"}, {"n": 4, "time": "09:45", "visit": "朝阳农贸市场二楼。找新客户", "loc": "西城街道朝凤北路35号朝阳农贸集市"}, {"n": 5, "time": "09:49", "visit": "朝阳农贸市场二楼梯子那里，拜访以前的老客户", "loc": "西城街道朝凤北路39号朝阳农贸集市"}, {"n": 6, "time": "10:04", "visit": "朝阳农贸市场 。处理售后", "loc": "西城街道朝凤北路18号朝阳农贸集市"}, {"n": 7, "time": "10:18", "visit": "朝阳农贸市场处理售后", "loc": "西城街道朝凤北路20号朝阳农贸集市"}, {"n": 8, "time": "10:56", "visit": "江苏炒货开新客户", "loc": "东城街道朝凤北路三委小区"}]}, "6": {"name": "蔡林", "group": "四组", "visits": 6, "distance": 1.72, "span": "08:58–11:00", "pace": "25min", "pts": [{"lat": 31.85955322265625, "lon": 106.76731635199653, "time": "08:58", "visit": "老江北生鲜店\n客情维护", "loc": "江北街道江北大道东段永泰花园桂花苑", "seg_km": 0.0}, {"lat": 31.852118055555554, "lon": 106.7525718858507, "time": "09:33", "visit": "跟进客户召回", "loc": "西城街道凤谷街115号城西市场", "seg_km": 1.62}, {"lat": 31.852109917534722, "lon": 106.75258138020833, "time": "09:42", "visit": "跟进挽回客户下单", "loc": "西城街道凤谷街115号城西市场", "seg_km": 0.0}, {"lat": 31.852132703993057, "lon": 106.75252631293402, "time": "09:59", "visit": "跟进新客户下单", "loc": "西城街道凤谷街115号城西市场", "seg_km": 0.01}, {"lat": 31.852723524305556, "lon": 106.75275390625, "time": "10:31", "visit": "跟进老客户下单", "loc": "西城街道红军路274号城西市场", "seg_km": 0.07}, {"lat": 31.852888997395834, "lon": 106.7527406141493, "time": "11:00", "visit": "客情维护", "loc": "西城街道红军路274号城西市场", "seg_km": 0.02}], "stops": [{"n": 1, "time": "08:58", "visit": "老江北生鲜店\n客情维护", "loc": "江北街道江北大道东段永泰花园桂花苑"}, {"n": 2, "time": "09:33", "visit": "跟进客户召回", "loc": "西城街道凤谷街115号城西市场"}, {"n": 3, "time": "09:42", "visit": "跟进挽回客户下单", "loc": "西城街道凤谷街115号城西市场"}, {"n": 4, "time": "09:59", "visit": "跟进新客户下单", "loc": "西城街道凤谷街115号城西市场"}, {"n": 5, "time": "10:31", "visit": "跟进老客户下单", "loc": "西城街道红军路274号城西市场"}, {"n": 6, "time": "11:00", "visit": "客情维护", "loc": "西城街道红军路274号城西市场"}]}, "7": {"name": "董玲玲", "group": "四组", "visits": 5, "distance": 1.69, "span": "09:23–11:18", "pace": "29min", "pts": [{"lat": 30.833126085069445, "lon": 106.97041883680555, "time": "09:23", "visit": "挽回", "loc": "渠南街道北大街82号渠县人民市场", "seg_km": 0.0}, {"lat": 30.83968071831597, "lon": 106.97246826171875, "time": "10:06", "visit": "开新", "loc": "渠江街道北大街11号渠县第三中学", "seg_km": 0.75}, {"lat": 30.839603949652776, "lon": 106.97012424045138, "time": "10:54", "visit": "开新", "loc": "渠江街道营渠路天源商务宾馆", "seg_km": 0.22}, {"lat": 30.833509657118057, "lon": 106.97044216579862, "time": "11:06", "visit": "处理售后", "loc": "渠南街道半边街156号渠县人民市场", "seg_km": 0.68}, {"lat": 30.83315212673611, "lon": 106.97032904730902, "time": "11:18", "visit": "售后", "loc": "渠南街道北大街82号渠县人民市场", "seg_km": 0.04}], "stops": [{"n": 1, "time": "09:23", "visit": "挽回", "loc": "渠南街道北大街82号渠县人民市场"}, {"n": 2, "time": "10:06", "visit": "开新", "loc": "渠江街道北大街11号渠县第三中学"}, {"n": 3, "time": "10:54", "visit": "开新", "loc": "渠江街道营渠路天源商务宾馆"}, {"n": 4, "time": "11:06", "visit": "处理售后", "loc": "渠南街道半边街156号渠县人民市场"}, {"n": 5, "time": "11:18", "visit": "售后", "loc": "渠南街道北大街82号渠县人民市场"}]}};
 var rMap=null, rLayer=null, rReady=false;
 function ensureMap(){
   if(rReady) return;
